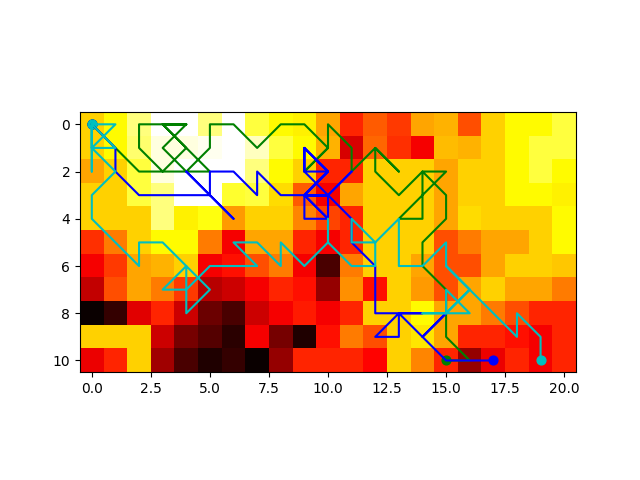
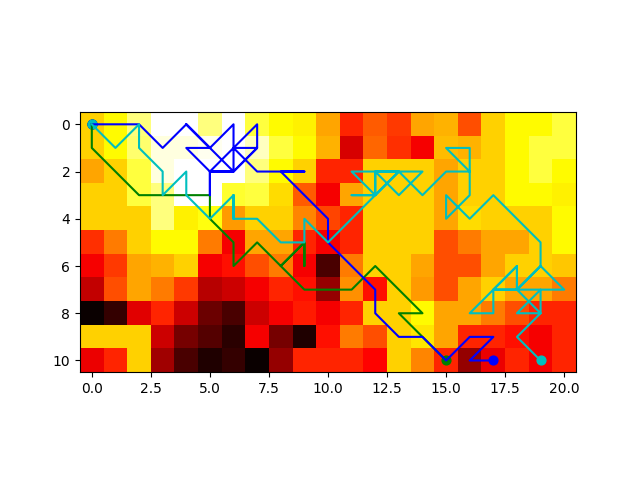
generate results as png

Changed region(s): [[0.125, 0.25, 0.875, 0.75], [0.1562, 0.4688, 0.2812, 0.5625], [0.8125, 0.4688, 0.8438, 0.5]]

diff --git a/aco_ga_waterloo.py b/aco_ga_waterloo.py
@@ -39,7 +39,7 @@ def main():
       removed[p] = p
 
   if raw_graph != None:
-    # raw_graph.plotMovementsMultiPaths(solutions, routes, './result/aco.png')
+    raw_graph.plotMovementsMultiPaths(solutions, routes, './result/aco.png')
     raw_graph.plotMovementsMultiPaths(paths, routes, './result/ga.png')
 
 

diff --git a/ga/gaconstants.py b/ga/gaconstants.py
@@ -6,7 +6,7 @@ ITERATION = 100
 TOURNAMENT_SIZE = 10
 
 ELITISM_RATE = 0.2
-MUTATION_RATE = 0.4
+MUTATION_RATE = 0.7
 
 SINGLE_VALUE_CROSSOVER_ALPHA = 0.6
 START_NODE = 1
